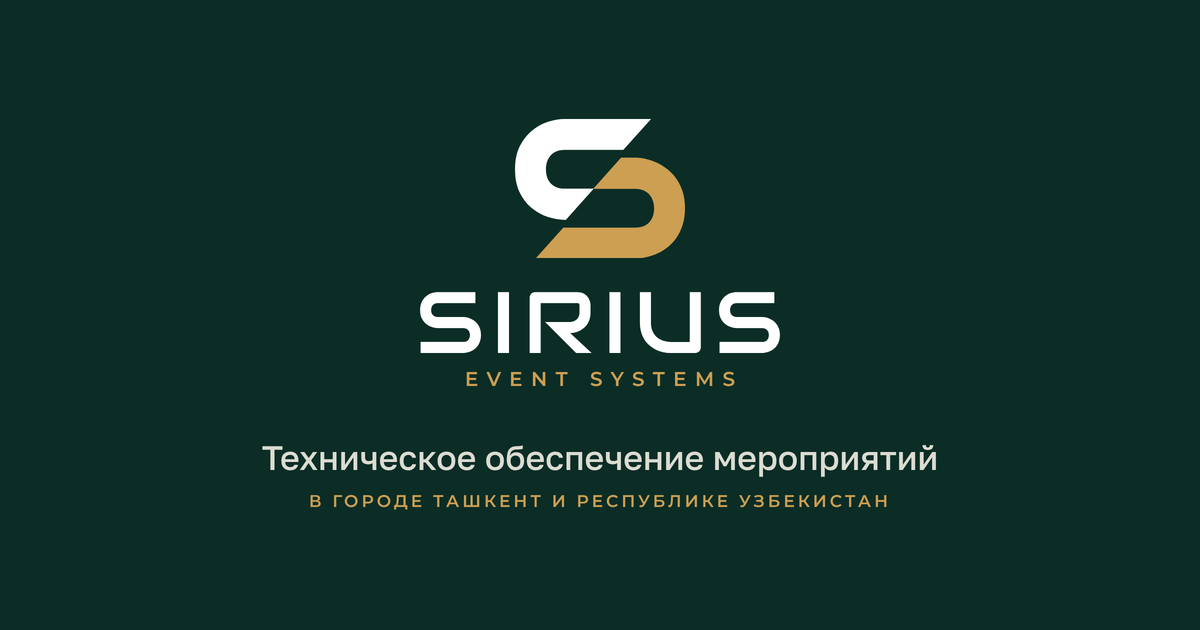
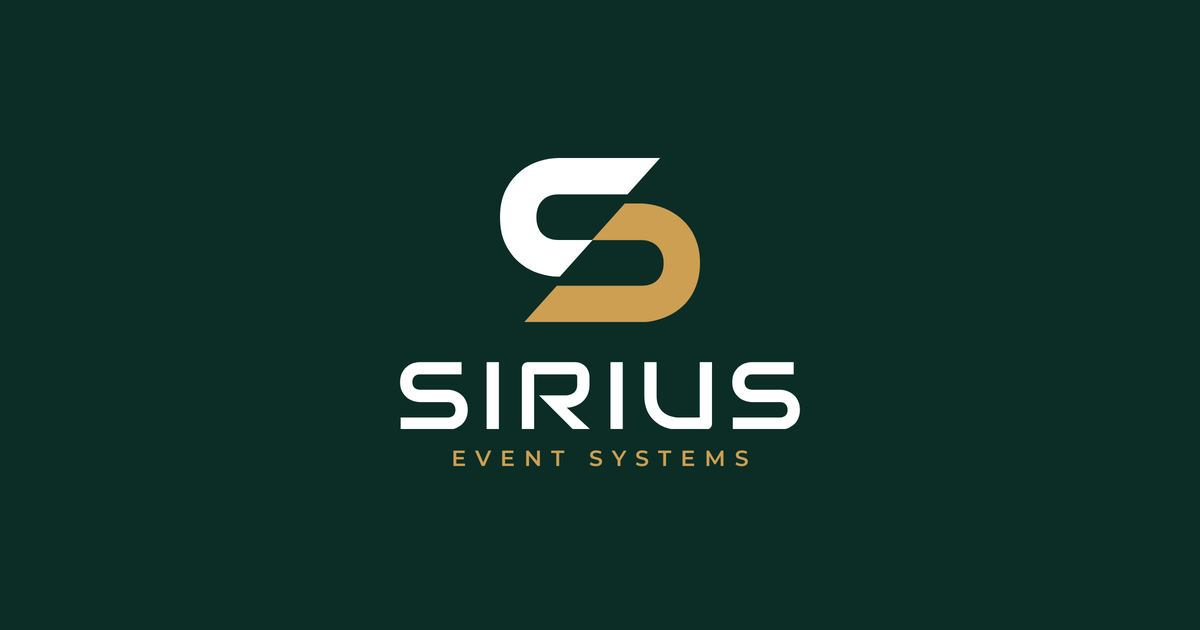
Превью ссылки короче: заголовок «Технический партнёр мероприятий», одна строка услуг, картинка — только логотип
Claude-Session: https://claude.ai/code/session_01HU2xYRLnUQHzpYGwDEaDyw

Changed region(s): [[0.2158, 0.181, 0.8017, 0.754], [0.2467, 0.7841, 0.74, 0.8143]]

diff --git a/src/og_src.html b/src/og_src.html
@@ -1,7 +1,7 @@
 <!DOCTYPE html><html><head><meta charset="utf-8"><style>@import url("https://fonts.googleapis.com/css2?family=Montserrat:wght@500;600;700&family=Golos+Text:wght@400;500&family=Rajdhani:wght@600&display=swap");
 body{margin:0;width:1200px;height:630px;background:#0B2D26;display:flex;align-items:center;justify-content:center;font-family:Montserrat,sans-serif;color:#F3EFE6}
-.c{text-align:center} .mark{width:170px;height:auto;display:block;margin:0 auto 34px} .word{width:360px;height:auto;display:block;margin:0 auto 14px}
-.sub{font:600 20px Montserrat;letter-spacing:.42em;text-indent:.42em;color:#CC9F52;margin-bottom:46px}
+.c{text-align:center} .mark{width:200px;height:auto;display:block;margin:0 auto 40px} .word{width:400px;height:auto;display:block;margin:0 auto 16px}
+.sub{font:600 22px Montserrat;letter-spacing:.42em;text-indent:.42em;color:#CC9F52}
 .tag{font:500 34px "Golos Text";color:rgba(243,239,230,.9)}
 .geo{font:600 17px Montserrat;letter-spacing:.18em;text-transform:uppercase;color:#CC9F52;margin-top:14px}
-</style></head><body><div class="c"><svg class="mark" viewBox="112.2 181.8 775.5 636.5"><g> <path fill="#FFFFFF" d="M338.49,499.67c-26.77,0-47.64-7.86-62.69-23.59c-14.98-15.72-22.5-37.14-22.5-64.31 c0-26.7,7.52-48.25,22.5-64.52c15.04-16.26,35.92-24.4,62.69-24.4h267.99l126.47-141.03H338.49c-22.77,0-47.37,4.06-73.8,12.2 c-26.36,8.13-50.9,21.35-73.46,39.58c-22.63,18.3-41.41,41.95-56.45,71.09c-14.98,29.07-22.5,64.79-22.5,107.08 c0,42.36,7.52,78.14,22.5,107.42c15.05,29.28,33.82,53,56.45,71.09c22.57,18.03,47.1,31.17,73.46,39.31 c26.43,8.13,51.03,12.2,73.8,12.2h5.68L471.6,499.67H338.49z"/> <path fill="#CC9F52" d="M849.51,455.88c-11.73-17.01-25.21-31.58-40.39-43.71c-15.18-12.06-31.17-22.09-47.98-30.09 c-16.88-7.93-33.75-13.83-50.76-17.62c-17.01-3.79-33.07-5.9-48.25-6.23h-1.09h-64.9L468.7,500.33h192.34 c13.01,0,24.87,2.17,35.51,6.51c10.64,4.34,19.72,10.51,27.11,18.43c7.45,8,13.15,17.35,17.08,28.19c4,10.84,5.96,22.77,5.96,35.85 c0,26.7-7.45,48.05-22.5,63.98c-14.98,15.92-36.06,23.86-63.16,23.86H332.51L206.04,818.18h455c15.18,0,31.38-1.83,48.52-5.42 c17.21-3.59,34.09-9.22,50.76-16.81c16.6-7.59,32.67-17.35,48.25-29.28c15.52-11.93,29.07-26.43,40.66-43.44 c11.59-16.94,20.87-36.6,27.92-58.83s10.57-47.3,10.57-75.09c0-27.85-3.39-52.8-10.3-74.89 C870.59,492.41,861.24,472.89,849.51,455.88z"/> </g></svg><svg class="word" viewBox="131.5 437.5 737.0 125.0"><g> <path fill="#FFFFFF" d="M256.26,525.66c0,4.46-0.57,8.48-1.7,12.04s-2.62,6.72-4.48,9.43c-1.86,2.73-4.03,5.05-6.52,6.97 c-2.5,1.91-5.07,3.48-7.74,4.69c-2.67,1.22-5.38,2.12-8.14,2.69c-2.75,0.58-5.35,0.87-7.78,0.87h-87.23v-22.61h87.23 c4.35,0,7.73-1.27,10.13-3.82c2.41-2.55,3.61-5.98,3.61-10.26c0-2.1-0.32-4.01-0.96-5.75c-0.63-1.74-1.54-3.24-2.74-4.52 c-1.18-1.27-2.64-2.26-4.35-2.96c-1.71-0.7-3.61-1.04-5.69-1.04H167.9c-3.65,0-7.6-0.65-11.83-1.96c-4.23-1.3-8.16-3.41-11.78-6.3 c-3.63-2.9-6.64-6.7-9.05-11.4c-2.4-4.69-3.61-10.43-3.61-17.22c0-6.78,1.21-12.51,3.61-17.17c2.41-4.67,5.42-8.46,9.05-11.4 c3.62-2.92,7.55-5.04,11.78-6.35c4.24-1.3,8.18-1.96,11.83-1.96h76.97v22.61H167.9c-4.29,0-7.64,1.3-10.05,3.91 c-2.4,2.61-3.61,6.06-3.61,10.34c0,4.36,1.21,7.79,3.61,10.31c2.41,2.52,5.76,3.78,10.05,3.78h52.01h0.17 c2.43,0.05,5.01,0.39,7.74,1c2.73,0.61,5.43,1.55,8.14,2.83c2.69,1.28,5.26,2.89,7.69,4.82c2.43,1.95,4.6,4.28,6.48,7.01 c1.88,2.73,3.38,5.86,4.48,9.39C255.71,517.2,256.26,521.19,256.26,525.66z"/> <path fill="#FFFFFF" d="M313.68,562.36h-22.6V437.64h22.6V562.36z"/> <path fill="#FFFFFF" d="M480.6,479.57c0,5.16-0.64,9.77-1.92,13.82c-1.27,4.06-3,7.64-5.17,10.75c-2.17,3.1-4.68,5.75-7.52,7.95 c-2.85,2.21-5.81,4.02-8.91,5.43c-3.11,1.42-6.24,2.46-9.4,3.09c-3.16,0.64-6.13,0.96-8.91,0.96l44.11,40.79h-31.86l-63.39-63.4 l0,0h51.14c2.84-0.23,5.43-0.83,7.78-1.78c2.35-0.96,4.38-2.24,6.09-3.87c1.72-1.62,3.03-3.58,3.97-5.87 c0.92-2.29,1.39-4.91,1.39-7.87V465.3c0-1.27-0.16-2.25-0.48-2.91c-0.33-0.66-0.73-1.16-1.22-1.48c-0.5-0.32-1.02-0.51-1.56-0.57 c-0.55-0.05-1.06-0.09-1.53-0.09h-74.62v102.1h-22.6V449.03c0-1.56,0.28-3.04,0.87-4.43c0.58-1.39,1.37-2.61,2.39-3.65 c1.01-1.04,2.22-1.86,3.61-2.43c1.39-0.58,2.9-0.87,4.52-0.87h85.83c5.05,0,9.31,0.91,12.79,2.74c3.48,1.83,6.3,4.12,8.48,6.87 c2.17,2.76,3.74,5.73,4.69,8.92c0.97,3.18,1.45,6.17,1.45,8.95V479.57z"/> <path fill="#FFFFFF" d="M541.93,562.36h-22.6V437.64h22.6V562.36z"/> <path fill="#FFFFFF" d="M706.42,550.97c0,1.62-0.28,3.13-0.87,4.52c-0.58,1.39-1.39,2.6-2.43,3.61s-2.26,1.81-3.65,2.39 s-2.87,0.87-4.43,0.87h-50.96c-4.81,0-9.68-0.52-14.62-1.56c-4.92-1.04-9.69-2.65-14.3-4.82s-8.94-4.94-13.01-8.31 c-4.05-3.36-7.61-7.35-10.65-11.95c-3.04-4.61-5.43-9.89-7.17-15.83c-1.75-5.94-2.62-12.56-2.62-19.87v-62.35h22.61v62.35 c0,6.38,0.89,11.78,2.65,16.18c1.77,4.41,4.02,8.08,6.75,11.05c2.72,2.96,5.7,5.27,8.95,6.95s6.34,2.92,9.26,3.74 c2.93,0.82,5.51,1.31,7.75,1.52c2.23,0.21,3.69,0.3,4.39,0.3h39.75v-102.1h22.6V550.97z"/> <path fill="#FFFFFF" d="M868.37,525.66c0,4.46-0.57,8.48-1.7,12.04c-1.13,3.56-2.62,6.72-4.48,9.43c-1.86,2.73-4.03,5.05-6.52,6.97 c-2.5,1.91-5.07,3.48-7.74,4.69c-2.67,1.22-5.38,2.12-8.14,2.69c-2.75,0.58-5.35,0.87-7.78,0.87h-87.23v-22.61h87.23 c4.35,0,7.73-1.27,10.13-3.82c2.41-2.55,3.61-5.98,3.61-10.26c0-2.1-0.32-4.01-0.96-5.75c-0.63-1.74-1.54-3.24-2.74-4.52 c-1.18-1.27-2.64-2.26-4.35-2.96c-1.71-0.7-3.61-1.04-5.69-1.04h-52.01c-3.65,0-7.6-0.65-11.83-1.96c-4.23-1.3-8.16-3.41-11.78-6.3 c-3.63-2.9-6.64-6.7-9.05-11.4c-2.4-4.69-3.61-10.43-3.61-17.22c0-6.78,1.21-12.51,3.61-17.17c2.41-4.67,5.42-8.46,9.05-11.4 c3.62-2.92,7.55-5.04,11.78-6.35c4.24-1.3,8.18-1.96,11.83-1.96h76.97v22.61h-76.97c-4.29,0-7.64,1.3-10.05,3.91 c-2.4,2.61-3.61,6.06-3.61,10.34c0,4.36,1.21,7.79,3.61,10.31c2.41,2.52,5.76,3.78,10.05,3.78h52.01h0.17 c2.43,0.05,5.01,0.39,7.74,1c2.73,0.61,5.43,1.55,8.14,2.83c2.69,1.28,5.26,2.89,7.69,4.82c2.43,1.95,4.6,4.28,6.48,7.01 c1.88,2.73,3.38,5.86,4.48,9.39C867.82,517.2,868.37,521.19,868.37,525.66z"/> </g></svg><div class="sub">EVENT SYSTEMS</div><div class="tag">Техническое обеспечение мероприятий</div><div class="geo">В городе Ташкент и Республике Узбекистан</div></div></body></html>
+</style></head><body><div class="c"><svg class="mark" viewBox="112.2 181.8 775.5 636.5"><g> <path fill="#FFFFFF" d="M338.49,499.67c-26.77,0-47.64-7.86-62.69-23.59c-14.98-15.72-22.5-37.14-22.5-64.31 c0-26.7,7.52-48.25,22.5-64.52c15.04-16.26,35.92-24.4,62.69-24.4h267.99l126.47-141.03H338.49c-22.77,0-47.37,4.06-73.8,12.2 c-26.36,8.13-50.9,21.35-73.46,39.58c-22.63,18.3-41.41,41.95-56.45,71.09c-14.98,29.07-22.5,64.79-22.5,107.08 c0,42.36,7.52,78.14,22.5,107.42c15.05,29.28,33.82,53,56.45,71.09c22.57,18.03,47.1,31.17,73.46,39.31 c26.43,8.13,51.03,12.2,73.8,12.2h5.68L471.6,499.67H338.49z"/> <path fill="#CC9F52" d="M849.51,455.88c-11.73-17.01-25.21-31.58-40.39-43.71c-15.18-12.06-31.17-22.09-47.98-30.09 c-16.88-7.93-33.75-13.83-50.76-17.62c-17.01-3.79-33.07-5.9-48.25-6.23h-1.09h-64.9L468.7,500.33h192.34 c13.01,0,24.87,2.17,35.51,6.51c10.64,4.34,19.72,10.51,27.11,18.43c7.45,8,13.15,17.35,17.08,28.19c4,10.84,5.96,22.77,5.96,35.85 c0,26.7-7.45,48.05-22.5,63.98c-14.98,15.92-36.06,23.86-63.16,23.86H332.51L206.04,818.18h455c15.18,0,31.38-1.83,48.52-5.42 c17.21-3.59,34.09-9.22,50.76-16.81c16.6-7.59,32.67-17.35,48.25-29.28c15.52-11.93,29.07-26.43,40.66-43.44 c11.59-16.94,20.87-36.6,27.92-58.83s10.57-47.3,10.57-75.09c0-27.85-3.39-52.8-10.3-74.89 C870.59,492.41,861.24,472.89,849.51,455.88z"/> </g></svg><svg class="word" viewBox="131.5 437.5 737.0 125.0"><g> <path fill="#FFFFFF" d="M256.26,525.66c0,4.46-0.57,8.48-1.7,12.04s-2.62,6.72-4.48,9.43c-1.86,2.73-4.03,5.05-6.52,6.97 c-2.5,1.91-5.07,3.48-7.74,4.69c-2.67,1.22-5.38,2.12-8.14,2.69c-2.75,0.58-5.35,0.87-7.78,0.87h-87.23v-22.61h87.23 c4.35,0,7.73-1.27,10.13-3.82c2.41-2.55,3.61-5.98,3.61-10.26c0-2.1-0.32-4.01-0.96-5.75c-0.63-1.74-1.54-3.24-2.74-4.52 c-1.18-1.27-2.64-2.26-4.35-2.96c-1.71-0.7-3.61-1.04-5.69-1.04H167.9c-3.65,0-7.6-0.65-11.83-1.96c-4.23-1.3-8.16-3.41-11.78-6.3 c-3.63-2.9-6.64-6.7-9.05-11.4c-2.4-4.69-3.61-10.43-3.61-17.22c0-6.78,1.21-12.51,3.61-17.17c2.41-4.67,5.42-8.46,9.05-11.4 c3.62-2.92,7.55-5.04,11.78-6.35c4.24-1.3,8.18-1.96,11.83-1.96h76.97v22.61H167.9c-4.29,0-7.64,1.3-10.05,3.91 c-2.4,2.61-3.61,6.06-3.61,10.34c0,4.36,1.21,7.79,3.61,10.31c2.41,2.52,5.76,3.78,10.05,3.78h52.01h0.17 c2.43,0.05,5.01,0.39,7.74,1c2.73,0.61,5.43,1.55,8.14,2.83c2.69,1.28,5.26,2.89,7.69,4.82c2.43,1.95,4.6,4.28,6.48,7.01 c1.88,2.73,3.38,5.86,4.48,9.39C255.71,517.2,256.26,521.19,256.26,525.66z"/> <path fill="#FFFFFF" d="M313.68,562.36h-22.6V437.64h22.6V562.36z"/> <path fill="#FFFFFF" d="M480.6,479.57c0,5.16-0.64,9.77-1.92,13.82c-1.27,4.06-3,7.64-5.17,10.75c-2.17,3.1-4.68,5.75-7.52,7.95 c-2.85,2.21-5.81,4.02-8.91,5.43c-3.11,1.42-6.24,2.46-9.4,3.09c-3.16,0.64-6.13,0.96-8.91,0.96l44.11,40.79h-31.86l-63.39-63.4 l0,0h51.14c2.84-0.23,5.43-0.83,7.78-1.78c2.35-0.96,4.38-2.24,6.09-3.87c1.72-1.62,3.03-3.58,3.97-5.87 c0.92-2.29,1.39-4.91,1.39-7.87V465.3c0-1.27-0.16-2.25-0.48-2.91c-0.33-0.66-0.73-1.16-1.22-1.48c-0.5-0.32-1.02-0.51-1.56-0.57 c-0.55-0.05-1.06-0.09-1.53-0.09h-74.62v102.1h-22.6V449.03c0-1.56,0.28-3.04,0.87-4.43c0.58-1.39,1.37-2.61,2.39-3.65 c1.01-1.04,2.22-1.86,3.61-2.43c1.39-0.58,2.9-0.87,4.52-0.87h85.83c5.05,0,9.31,0.91,12.79,2.74c3.48,1.83,6.3,4.12,8.48,6.87 c2.17,2.76,3.74,5.73,4.69,8.92c0.97,3.18,1.45,6.17,1.45,8.95V479.57z"/> <path fill="#FFFFFF" d="M541.93,562.36h-22.6V437.64h22.6V562.36z"/> <path fill="#FFFFFF" d="M706.42,550.97c0,1.62-0.28,3.13-0.87,4.52c-0.58,1.39-1.39,2.6-2.43,3.61s-2.26,1.81-3.65,2.39 s-2.87,0.87-4.43,0.87h-50.96c-4.81,0-9.68-0.52-14.62-1.56c-4.92-1.04-9.69-2.65-14.3-4.82s-8.94-4.94-13.01-8.31 c-4.05-3.36-7.61-7.35-10.65-11.95c-3.04-4.61-5.43-9.89-7.17-15.83c-1.75-5.94-2.62-12.56-2.62-19.87v-62.35h22.61v62.35 c0,6.38,0.89,11.78,2.65,16.18c1.77,4.41,4.02,8.08,6.75,11.05c2.72,2.96,5.7,5.27,8.95,6.95s6.34,2.92,9.26,3.74 c2.93,0.82,5.51,1.31,7.75,1.52c2.23,0.21,3.69,0.3,4.39,0.3h39.75v-102.1h22.6V550.97z"/> <path fill="#FFFFFF" d="M868.37,525.66c0,4.46-0.57,8.48-1.7,12.04c-1.13,3.56-2.62,6.72-4.48,9.43c-1.86,2.73-4.03,5.05-6.52,6.97 c-2.5,1.91-5.07,3.48-7.74,4.69c-2.67,1.22-5.38,2.12-8.14,2.69c-2.75,0.58-5.35,0.87-7.78,0.87h-87.23v-22.61h87.23 c4.35,0,7.73-1.27,10.13-3.82c2.41-2.55,3.61-5.98,3.61-10.26c0-2.1-0.32-4.01-0.96-5.75c-0.63-1.74-1.54-3.24-2.74-4.52 c-1.18-1.27-2.64-2.26-4.35-2.96c-1.71-0.7-3.61-1.04-5.69-1.04h-52.01c-3.65,0-7.6-0.65-11.83-1.96c-4.23-1.3-8.16-3.41-11.78-6.3 c-3.63-2.9-6.64-6.7-9.05-11.4c-2.4-4.69-3.61-10.43-3.61-17.22c0-6.78,1.21-12.51,3.61-17.17c2.41-4.67,5.42-8.46,9.05-11.4 c3.62-2.92,7.55-5.04,11.78-6.35c4.24-1.3,8.18-1.96,11.83-1.96h76.97v22.61h-76.97c-4.29,0-7.64,1.3-10.05,3.91 c-2.4,2.61-3.61,6.06-3.61,10.34c0,4.36,1.21,7.79,3.61,10.31c2.41,2.52,5.76,3.78,10.05,3.78h52.01h0.17 c2.43,0.05,5.01,0.39,7.74,1c2.73,0.61,5.43,1.55,8.14,2.83c2.69,1.28,5.26,2.89,7.69,4.82c2.43,1.95,4.6,4.28,6.48,7.01 c1.88,2.73,3.38,5.86,4.48,9.39C867.82,517.2,868.37,521.19,868.37,525.66z"/> </g></svg><div class="sub" style="margin-bottom:0">EVENT SYSTEMS</div></div></body></html>

diff --git a/index.html b/index.html
@@ -4,7 +4,7 @@
 <meta charset="utf-8">
 <meta name="viewport" content="width=device-width, initial-scale=1, viewport-fit=cover">
 <meta name="theme-color" content="#0B2D26">
-<meta name="description" content="Техническое обеспечение мероприятий: синхронный перевод, звук, свет, LED-экраны, сцены, видеосвязь. Ташкент и Республика Узбекистан.">
+<meta name="description" content="Технический партнёр мероприятий: синхронный перевод, звук, свет, экраны, сцены, Zoom. Ташкент — Узбекистан.">
 <title>Sirius Event Systems</title>
 <link rel="apple-touch-icon" sizes="180x180" href="apple-touch-icon.png?v=126ee8d6">
 <meta name="apple-mobile-web-app-title" content="Sirius">
@@ -13,18 +13,18 @@
 <link rel="manifest" href="site.webmanifest">
 <meta property="og:type" content="website">
 <meta property="og:site_name" content="Sirius Event Systems">
-<meta property="og:title" content="Техническое обеспечение мероприятий">
-<meta property="og:description" content="Синхронный перевод, звук, свет, LED-экраны, сцены, видеосвязь. Ташкент и Республика Узбекистан.">
+<meta property="og:title" content="Технический партнёр мероприятий">
+<meta property="og:description" content="Синхронный перевод, звук, свет, экраны, сцены, Zoom">
 <meta property="og:url" content="https://azirex-code.github.io/sirius-card/">
-<meta property="og:image" content="https://azirex-code.github.io/sirius-card/og.png?v=2761d509">
+<meta property="og:image" content="https://azirex-code.github.io/sirius-card/og.png?v=9fc60a36">
 <meta property="og:image:width" content="1200">
 <meta property="og:image:height" content="630">
-<meta property="og:image:alt" content="Sirius Event Systems — техническое обеспечение мероприятий">
+<meta property="og:image:alt" content="Sirius Event Systems">
 <meta property="og:locale" content="ru_RU">
 <meta name="twitter:card" content="summary_large_image">
-<meta name="twitter:title" content="Техническое обеспечение мероприятий">
-<meta name="twitter:description" content="Синхронный перевод, звук, свет, LED-экраны, сцены, видеосвязь. Ташкент и Республика Узбекистан.">
-<meta name="twitter:image" content="https://azirex-code.github.io/sirius-card/og.png?v=2761d509">
+<meta name="twitter:title" content="Технический партнёр мероприятий">
+<meta name="twitter:description" content="Синхронный перевод, звук, свет, экраны, сцены, Zoom">
+<meta name="twitter:image" content="https://azirex-code.github.io/sirius-card/og.png?v=9fc60a36">
 <link rel="preconnect" href="https://fonts.googleapis.com">
 <link rel="preconnect" href="https://fonts.gstatic.com" crossorigin>
 <link href="https://fonts.googleapis.com/css2?family=Golos+Text:wght@400;500;600&family=Montserrat:wght@500;600;700&family=Rajdhani:wght@600;700&family=Play:wght@700&display=swap" rel="stylesheet">

diff --git a/src/build4.py b/src/build4.py
@@ -100,7 +100,7 @@ html = f'''<!DOCTYPE html>
 <meta charset="utf-8">
 <meta name="viewport" content="width=device-width, initial-scale=1, viewport-fit=cover">
 <meta name="theme-color" content="#0B2D26">
-<meta name="description" content="Техническое обеспечение мероприятий: синхронный перевод, звук, свет, LED-экраны, сцены, видеосвязь. Ташкент и Республика Узбекистан.">
+<meta name="description" content="Технический партнёр мероприятий: синхронный перевод, звук, свет, экраны, сцены, Zoom. Ташкент — Узбекистан.">
 <title>Sirius Event Systems</title>
 <link rel="apple-touch-icon" sizes="180x180" href="apple-touch-icon.png?v={ICON_V}">
 <meta name="apple-mobile-web-app-title" content="Sirius">
@@ -109,17 +109,17 @@ html = f'''<!DOCTYPE html>
 <link rel="manifest" href="site.webmanifest">
 <meta property="og:type" content="website">
 <meta property="og:site_name" content="Sirius Event Systems">
-<meta property="og:title" content="Техническое обеспечение мероприятий">
-<meta property="og:description" content="Синхронный перевод, звук, свет, LED-экраны, сцены, видеосвязь. Ташкент и Республика Узбекистан.">
+<meta property="og:title" content="Технический партнёр мероприятий">
+<meta property="og:description" content="Синхронный перевод, звук, свет, экраны, сцены, Zoom">
 <meta property="og:url" content="https://azirex-code.github.io/sirius-card/">
 <meta property="og:image" content="https://azirex-code.github.io/sirius-card/og.png?v={OG_V}">
 <meta property="og:image:width" content="1200">
 <meta property="og:image:height" content="630">
-<meta property="og:image:alt" content="Sirius Event Systems — техническое обеспечение мероприятий">
+<meta property="og:image:alt" content="Sirius Event Systems">
 <meta property="og:locale" content="ru_RU">
 <meta name="twitter:card" content="summary_large_image">
-<meta name="twitter:title" content="Техническое обеспечение мероприятий">
-<meta name="twitter:description" content="Синхронный перевод, звук, свет, LED-экраны, сцены, видеосвязь. Ташкент и Республика Узбекистан.">
+<meta name="twitter:title" content="Технический партнёр мероприятий">
+<meta name="twitter:description" content="Синхронный перевод, звук, свет, экраны, сцены, Zoom">
 <meta name="twitter:image" content="https://azirex-code.github.io/sirius-card/og.png?v={OG_V}">
 <link rel="preconnect" href="https://fonts.googleapis.com">
 <link rel="preconnect" href="https://fonts.gstatic.com" crossorigin>
